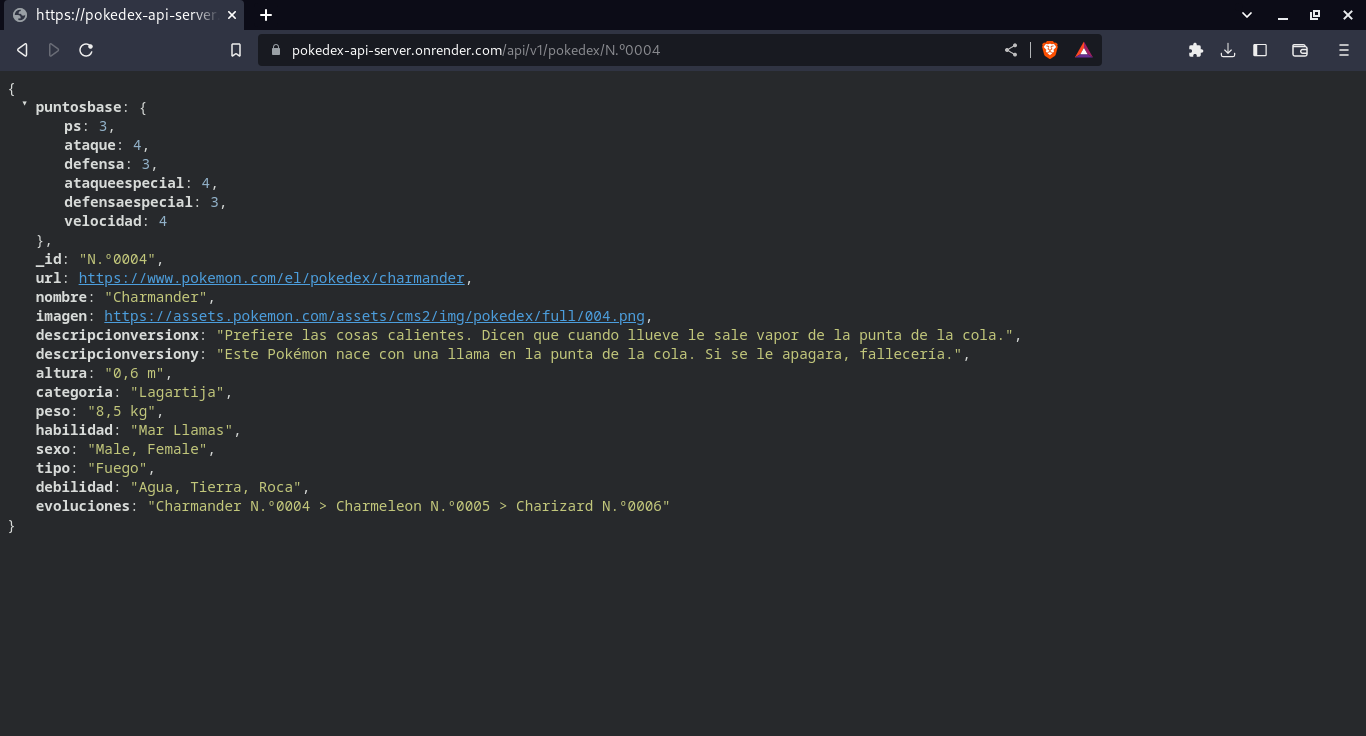
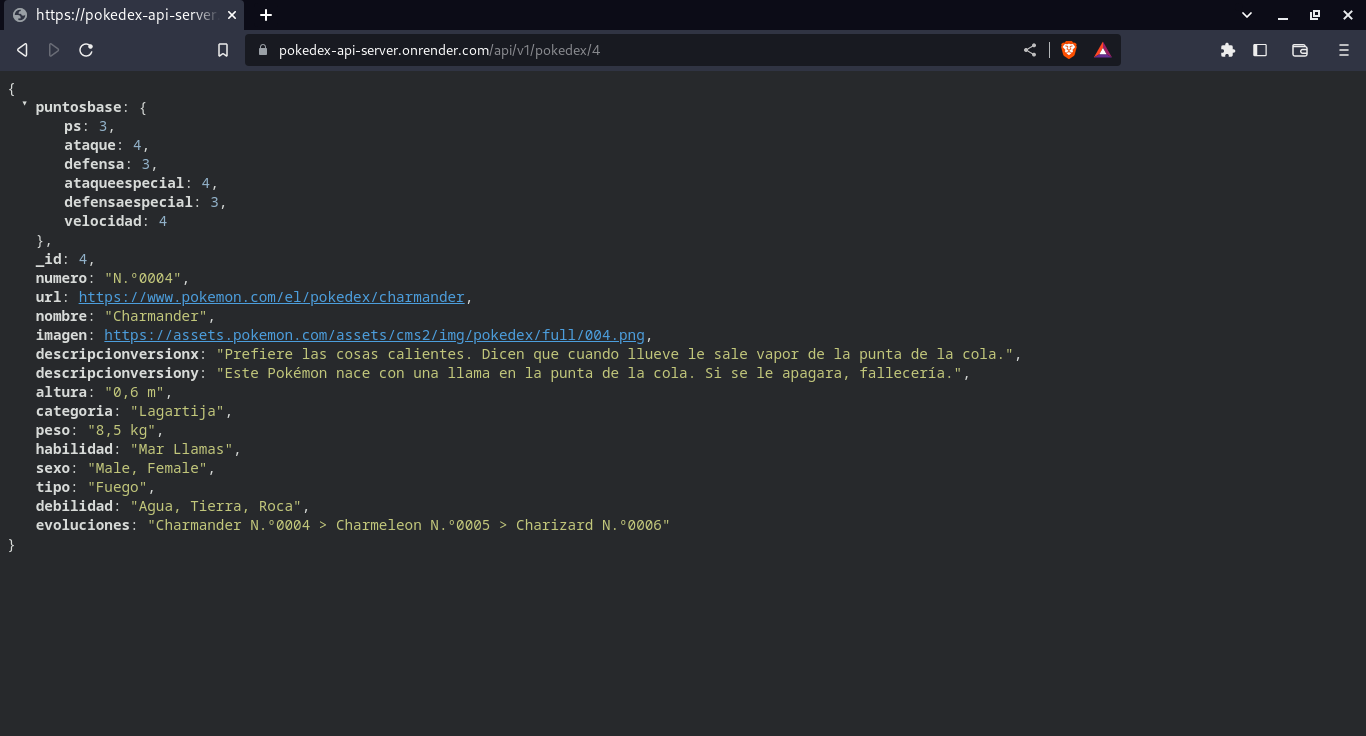
Modificacion ID

diff --git a/controllers/pokemon.js b/controllers/pokemon.js
@@ -3,7 +3,7 @@ const Pokemon = require("../models/pokemon");
 // Registro de pokemon 
 function register(req, res) {
     const {
-        _id, url, name, image, descripcionversionx, descripcionversiony,
+        _id, numero, url, name, image, descripcionversionx, descripcionversiony,
         altura, categoria, peso, habilidad, sexo, tipo, debilidad, puntosbase, evoluciones } = req.body;
 
     if (!_id) res.status(400).send({ msg: "El id es obligatorio" });
@@ -11,6 +11,7 @@ function register(req, res) {
     const pokemon = new Pokemon({
         _id,
         url,
+        numero,
         name,
         image,
         descripcionversionx,
@@ -58,15 +59,21 @@ async function getPokemons(req, res) {
 
 // Un pokemon
 async function getPokemon(req, res) {
-    const { id } = req.params;
-    const response = await Pokemon.findById(id);
+    try {
+        const { id } = req.params;
+        const pokemon = await Pokemon.findById(id);
 
-    if (!response) {
-        res.status(400).send({ msg: "No se ha encontrado pokemon" });
-    } else {
-        res.status(200).send(response);
+        if (!pokemon) {
+            return res.status(404).send({ msg: `No se ha encontrado el pokémon con id: ${id}` });
+        }
+
+        res.status(200).send(pokemon);
+    } catch (error) {
+        console.error(error);
+        res.status(500).send({ msg: "Error interno del servidor" });
     }
 }
+
 
 // Actualizar Pokemon
 async function updatePokemon(req, res) {

diff --git a/models/pokemon.js b/models/pokemon.js
@@ -2,7 +2,8 @@ const mongoose = require('mongoose');
 const mongoosePaginate = require('mongoose-paginate');
 
 const PokemonSchema = mongoose.Schema({
-    _id: String,
+    _id: Number,
+    numero: String,
     url: String,
     name: String,
     image: String,

diff --git a/README.md b/README.md
@@ -13,7 +13,7 @@ Ejemplo: https://pokedex-api-server.onrender.com/api/v1/pokedex?page=2
  ```
 ![Api-Pokemon](https://github.com/RETBOT/Pokedex_Api_Nodejs/blob/main/Imgs/Pokemon%20Api.png)
 ```
- https://pokedex-api-server.onrender.com/api/v1/pokedex/N.º0004
+ https://pokedex-api-server.onrender.com/api/v1/pokedex/4
  ```
 ![Api-1-Pokemon](https://github.com/RETBOT/Pokedex_Api_Nodejs/blob/main/Imgs/Pokemon%20Api%20pokemon.png)
 
@@ -26,7 +26,8 @@ Header: Authorization + Key <br>
 Body: raw + json  <br>
 ```
 {
-    "_id": "",
+    "_id": 0,
+    "numero": "", 
     "url": "",
     "name": "",
     "image": "",
@@ -66,7 +67,8 @@ Header: Authorization + Key<br>
 Body: raw + json <br>
 ```
 {
-    "_id": "",
+    "_id": 0,
+    "numero": "",
     "url": "",
     "name": "",
     "image": "",
